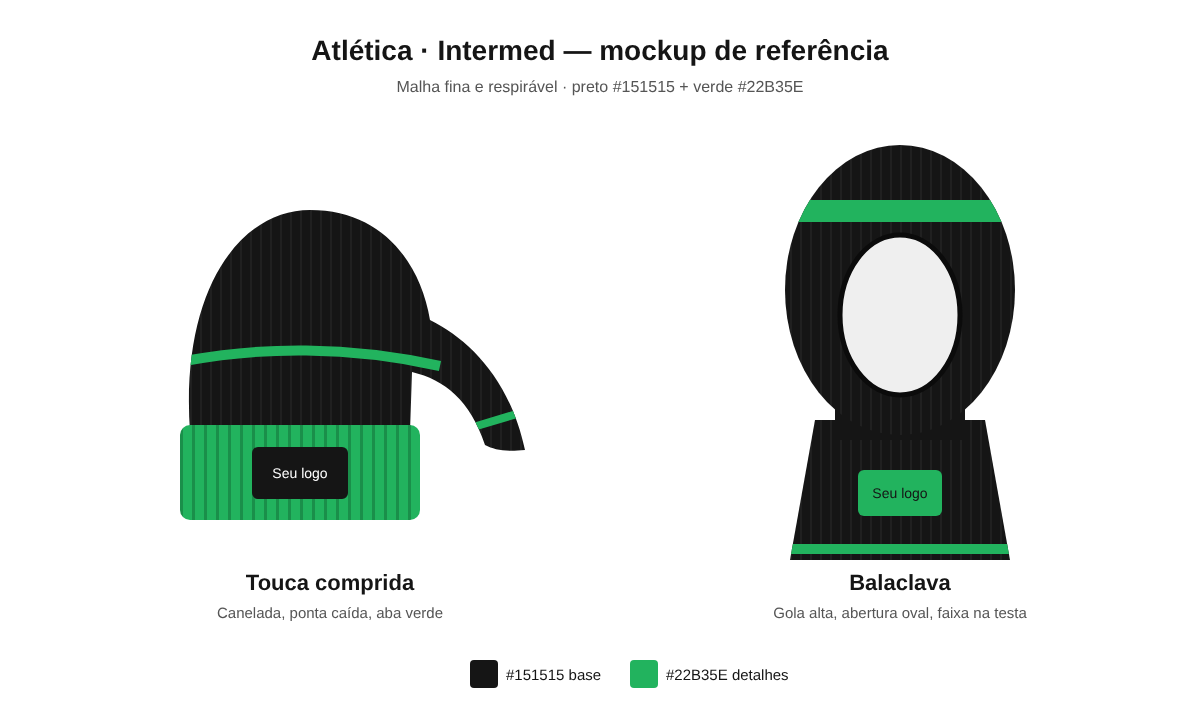
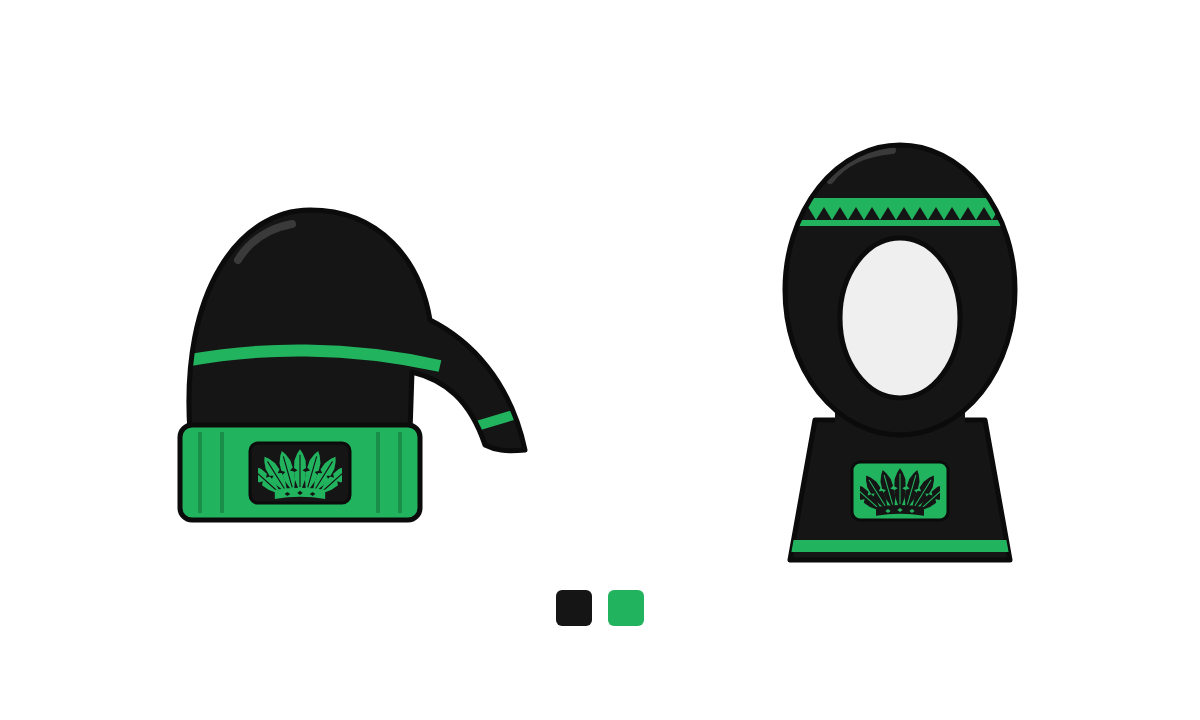
Troca o mockup por ilustração flat sem letras, com símbolo de cocar
Claude-Session: https://claude.ai/code/session_01XTegYYS7ArDpdrzvo12FVT

diff --git a/atletica-intermed/README.md b/atletica-intermed/README.md
@@ -2,8 +2,9 @@
 
 ![Mockup de referência](mockup.png)
 
-`mockup.png` / `mockup.svg`: mockup plano em preto e verde para anexar como
-referência de forma e cores (passo 1 de "Como usar").
+`mockup.png` / `mockup.svg`: mockup em ilustração flat, preto e verde, sem
+nenhuma letra, para anexar como referência de forma e cores (passo 1 de "Como
+usar"). `simbolo.svg`: o símbolo sozinho, em vetor, para aplicar no Canva/Figma.
 
 ## Contexto
 Merchandising para a atlética de uma faculdade de medicina brasileira, para uso
@@ -15,35 +16,45 @@ peças devem ser de malha fina e leve, respirável, com opção de proteção UV
 ## Paleta
 - Preto (base): `#151515`
 - Verde (detalhes): `#22B35E`
-- Não usar nenhum brasão, logo ou nome de universidade existente. Deixar um
-  espaço neutro escrito "Seu logo" para aplicar depois.
+- Não usar nenhum brasão, logo ou nome de universidade existente.
+- **Sem letras:** nenhuma palavra, nome ou tipografia genérica nas peças.
+
+## Símbolo
+Cocar estilizado: leque de 7 penas com nervura central e um entalhe lateral,
+saindo de uma faixa curva com 3 losangos (grafismo). Traço chapado, uma cor
+só: verde sobre patch preto (touca) e preto sobre patch verde (balaclava).
+O grafismo de dentes de serra se repete na faixa da testa da balaclava.
 
 ## Produto 1: touca comprida
 - Touca longa de malha canelada, preta, com ponta caída para o lado.
 - Aba (bainha) em verde com canelado vertical.
 - Uma listra verde fina em volta da cúpula e outra na ponta caída.
-- Pequeno patch preto na aba com espaço para o logo.
+- Pequeno patch preto na aba com o símbolo do cocar em verde.
 
 ## Produto 2: balaclava
 - Balaclava de malha fina, preta, com gola alta e abertura oval para o rosto.
-- Faixa verde na altura da testa e faixa verde fina na base da gola.
-- Patch verde na gola com espaço para o logo.
+- Faixa verde com grafismo de dentes de serra na testa e faixa verde fina na
+  base da gola.
+- Patch verde na gola com o símbolo do cocar em preto.
 
 ## Prompts prontos (copie e cole)
 
-### Foto de produto, touca
+Estilo comum a todos: ilustração, não foto. Se a IA insistir em escrever
+alguma coisa, repita "sem texto, sem letras" no fim do prompt.
+
+### Ilustração de produto, touca
 ```
-Foto de produto em fundo branco, estilo catálogo de loja universitária, iluminação de estúdio suave. Touca comprida de malha canelada preta com ponta caída para o lado, aba verde (#22B35E), listra verde fina em volta da cúpula e outra na ponta, pequeno patch preto na aba sem texto nem logo. Tecido leve, ângulo de 3/4, alta resolução.
+Ilustração vetorial flat de produto, fundo branco, contornos pretos grossos, cores chapadas, sombra mínima, sem texto, sem letras. Touca comprida de malha canelada preta com ponta caída para o lado, aba verde (#22B35E) com canelado vertical, listra verde fina em volta da cúpula e outra na ponta. Na aba, pequeno patch preto com um símbolo verde de cocar indígena estilizado: leque de penas geométricas sobre uma faixa curva com losangos. Ângulo de 3/4.
 ```
 
-### Foto de produto, balaclava
+### Ilustração de produto, balaclava
 ```
-Foto de produto em fundo branco, estilo catálogo de loja universitária, iluminação de estúdio suave. Balaclava de malha fina preta com gola alta e abertura oval para o rosto, faixa verde (#22B35E) na altura da testa, faixa verde fina na base da gola, patch verde na gola sem texto nem logo. Peça vista de frente, em manequim invisível (ghost mannequin), alta resolução.
+Ilustração vetorial flat de produto, fundo branco, contornos pretos grossos, cores chapadas, sombra mínima, sem texto, sem letras. Balaclava de malha fina preta com gola alta e abertura oval para o rosto, faixa verde (#22B35E) na testa com grafismo indígena de dentes de serra em preto, faixa verde fina na base da gola. Na gola, patch verde com um símbolo preto de cocar indígena estilizado: leque de penas geométricas sobre uma faixa curva com losangos. Vista de frente, sem pessoa.
 ```
 
-### Foto de uso (lifestyle)
+### Ilustração de uso
 ```
-Jovem universitário brasileiro numa arquibancada de ginásio ao ar livre de manhã cedo, com neblina leve, usando a touca comprida preta e verde. Estilo foto de campanha de moda esportiva, luz natural suave, profundidade de campo rasa.
+Ilustração estilo pôster esportivo, traço limpo e cores chapadas em preto, verde (#22B35E) e tons de cinza, sem texto, sem letras. Jovem universitário numa arquibancada ao ar livre de manhã cedo, com neblina leve e morros ao fundo, usando uma touca comprida preta com aba verde e um pequeno símbolo de cocar estilizado no patch.
 ```
 
 ## Como usar
@@ -52,10 +63,14 @@ Jovem universitário brasileiro numa arquibancada de ginásio ao ar livre de man
 2. Cole um dos prompts acima.
 3. Peça variações: "mesmo produto, mas com listras maiores" ou "mesmo produto
    em dry-fit com proteção UV".
-4. Depois de aprovar a imagem, aplique o logo real da atlética no Canva ou no
-   Figma, para sair nítido.
+4. Depois de aprovar a imagem, substitua o símbolo gerado pela IA pelo
+   `simbolo.svg` no Canva ou no Figma, para sair nítido e igual nas duas peças.
 
 ## Observações
 - Se o Intermed for no verão, priorize malha fina ou dry-fit; se for no
   inverno, malha um pouco mais grossa com forro.
 - Evite pedir à IA para escrever o nome da atlética; ela costuma errar as letras.
+- O símbolo é um cocar em grafismo geométrico, sem rosto nem caricatura de
+  pessoa indígena. Junto com o nome "Canibais", essa combinação pode ser
+  criticada por associar povos indígenas a canibalismo; vale a diretoria
+  avaliar antes de produzir.
